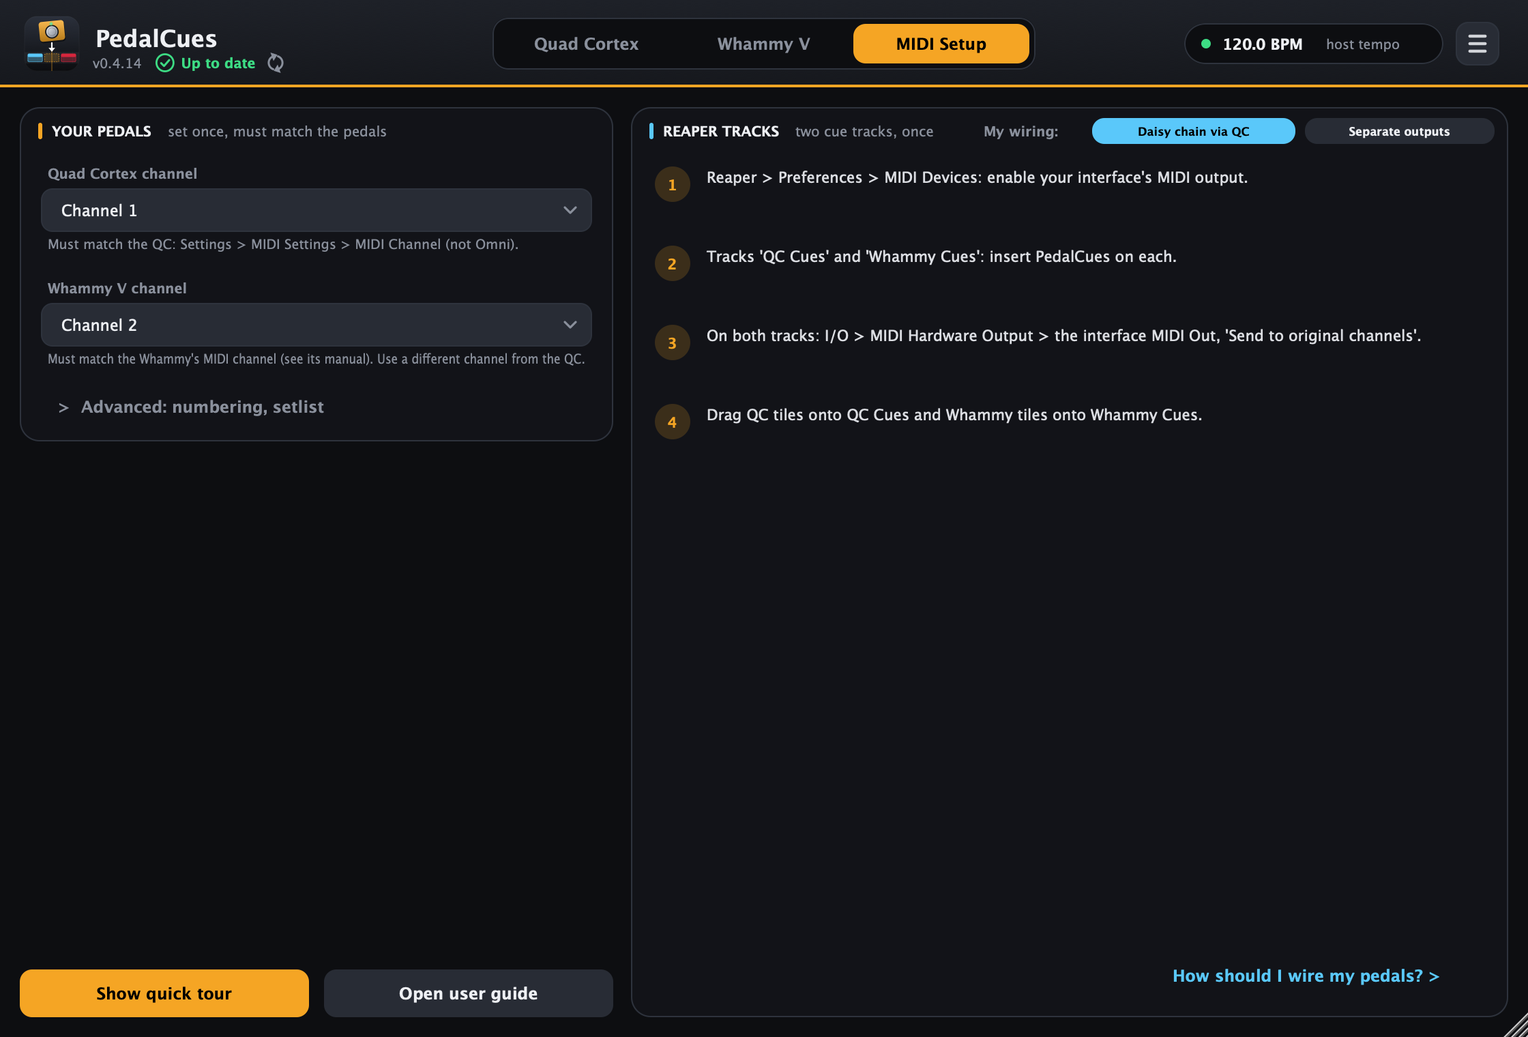
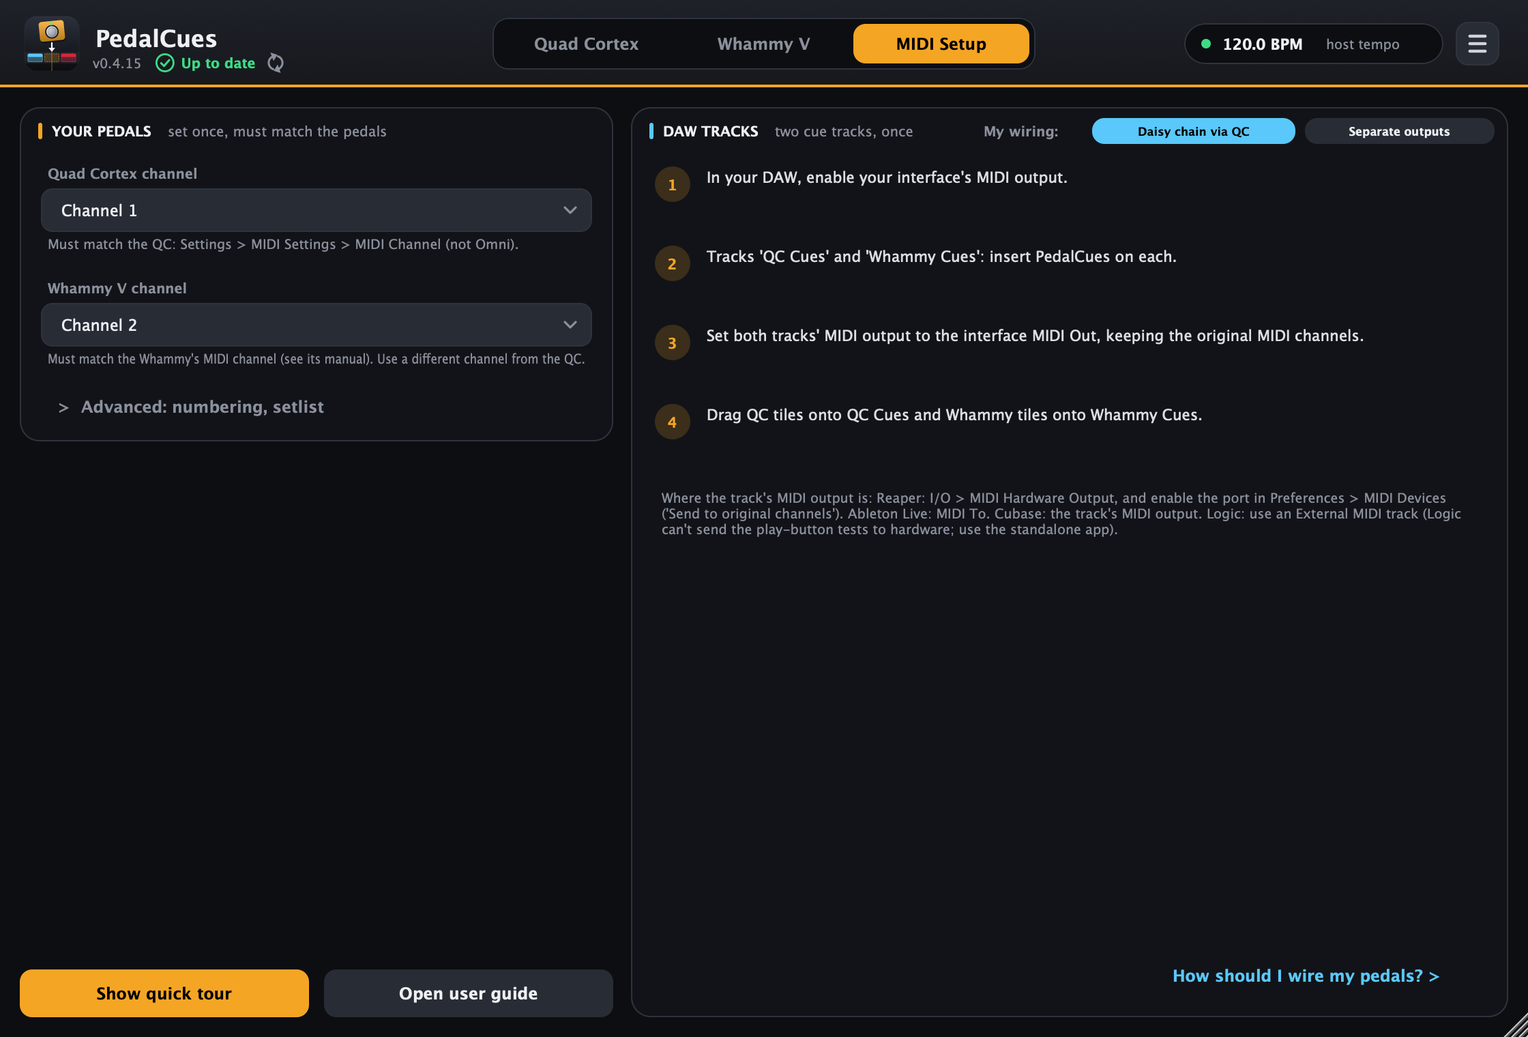
v0.4.15: works with any DAW, clearer Whammy test
- MIDI Setup says "DAW tracks" and shows where the MIDI output is in Reaper,
  Ableton Live, Cubase and Logic. The guide lists which DAWs are tested.
- Test Whammy steps through Oct Up, 5th Up and 2 Oct Up, so you always see
  the LED move, even if the Whammy was already on 2 Oct Up.

Changed region(s): [[0.4375, 0.4638, 0.9375, 0.5257], [0.4375, 0.1237, 0.8125, 0.1855], [0.4688, 0.3092, 0.9375, 0.3401]]

diff --git a/docs/index.html b/docs/index.html
@@ -157,7 +157,7 @@
 <section id="features">
   <div class="wrap">
     <h2>Everything a backing-track rig needs</h2>
-    <p class="sub">Works in any DAW that hosts VST3 or AU plugins; built with Reaper in mind.</p>
+    <p class="sub">Tested in Reaper; works in any DAW that can drag in MIDI clips and send a MIDI track to your pedals.</p>
     <div class="features">
       <div class="card"><h3><span class="dot" style="background:var(--qc)"></span>Presets &amp; scenes</h3>
         <p>Your QC presets, scene names and colours as tiles. Scenes laid out like the pedal: A&ndash;D on top, E&ndash;H below. Scenes and stomps load their own preset first, or act on the one already loaded.</p></div>
@@ -186,7 +186,7 @@
       <figure><img src="images/timeline.png" alt="Cues in the Reaper timeline" loading="lazy"><figcaption>Named cues on the timeline</figcaption></figure>
       <figure><img src="images/preset-target.png" alt="Which preset scenes act on" loading="lazy"><figcaption>Scenes load their preset first, or use the current one</figcaption></figure>
       <figure><img src="images/routing.png" alt="Routing options" loading="lazy"><figcaption>Three ways to connect your rig, and one that doesn't work</figcaption></figure>
-      <figure><img src="images/settings.png" alt="MIDI Setup tab" loading="lazy"><figcaption>MIDI Setup: your pedals and the Reaper tracks</figcaption></figure>
+      <figure><img src="images/settings.png" alt="MIDI Setup tab" loading="lazy"><figcaption>MIDI Setup: your pedals and the DAW tracks</figcaption></figure>
       <figure><img src="images/wiring-guide.png" alt="Wiring guide" loading="lazy"><figcaption>Wiring guide: cables for both setups</figcaption></figure>
       <figure><img src="images/tour-welcome.png" alt="Quick tour" loading="lazy"><figcaption>A quick tour on first launch</figcaption></figure>
       <figure><img src="images/tour-target.png" alt="Quick tour step" loading="lazy"><figcaption>The tour explains every area</figcaption></figure>

diff --git a/Source/SettingsPage.cpp b/Source/SettingsPage.cpp
@@ -143,8 +143,8 @@ public:
             g.setFont (font (12.0f));
             g.drawText (sub, r, juce::Justification::topLeft);
         };
-        heading (daisyTitle, "DAISY CHAIN VIA QC", "Both Reaper tracks send to the same interface MIDI Out. The pedals share one cable.");
-        heading (separateTitle, "SEPARATE OUTPUTS", "Each Reaper track sends to the output its pedal is on.");
+        heading (daisyTitle, "DAISY CHAIN VIA QC", "Both DAW tracks send to the same interface MIDI Out. The pedals share one cable.");
+        heading (separateTitle, "SEPARATE OUTPUTS", "Each DAW track sends to the output its pedal is on.");
 
         g.setColour (whammyRed);
         g.setFont (font (12.5f, true));
@@ -211,7 +211,7 @@ public:
         advancedButton.setColour (juce::TextButton::textColourOffId, dim);
         advancedButton.onClick = [this] { showAdvanced = ! showAdvanced; updateAdvanced(); resized(); };
 
-        // My wiring (in the Reaper tracks header): the steps below depend on it. The cable details are in Help > Wiring guide.
+        // My wiring (in the DAW tracks header): the steps below depend on it. The cable details are in Help > Wiring guide.
         for (auto* b : { &viaQcButton, &viaInterfaceButton })
         {
             b->setClickingTogglesState (true);
@@ -225,12 +225,15 @@ public:
         viaQcButton.onClick = [this] { if (viaQcButton.getToggleState()) setSetupMode (false); };
         viaInterfaceButton.onClick = [this] { if (viaInterfaceButton.getToggleState()) setSetupMode (true); };
 
-        // Reaper tracks: the two cue tracks and their outputs. Standalone only: Test (send to a port, test each pedal).
+        // DAW tracks: the two cue tracks and their outputs. Standalone only: Test (send to a port, test each pedal).
         tracksSteps.showFlow = false;
         wiringLink.setColour (juce::TextButton::buttonColourId, juce::Colours::transparentBlack);
         wiringLink.setColour (juce::TextButton::textColourOffId, qcBlue);
         wiringLink.onClick = [] { showWiringGuide(); };
         styleCaption (wiringLabel, "My wiring:");
+        styleHint (dawHint, "Where the track's MIDI output is: Reaper: I/O > MIDI Hardware Output, and enable the port in "
+                            "Preferences > MIDI Devices ('Send to original channels'). Ableton Live: MIDI To. Cubase: the track's MIDI output. "
+                            "Logic: use an External MIDI track (Logic can't send the play-button tests to hardware; use the standalone app).");
 
         testOutBox.onChange = [this]
         {
@@ -239,7 +242,7 @@ public:
             updateTestState();
         };
         testQcButton.setTooltip ("Opens the QC tuner for 1.5 seconds: a quick check that the QC gets MIDI on its channel.");
-        testWhButton.setTooltip ("Selects 2 Oct Up on the Whammy: a quick check that it gets MIDI on its channel.");
+        testWhButton.setTooltip ("Steps the Whammy through Oct Up, 5th Up and 2 Oct Up: a quick check that it gets MIDI on its channel.");
         testQcButton.onClick = [this]
         {
             cues::Cue c;
@@ -248,20 +251,30 @@ public:
             c.add (proc.getHostBpm() / 40.0, cues::qc::tuner (ch, false).events.front().second);   // ~1.5 s later
             proc.preview (c);
             setTestStatus ("Sent tuner on/off to " + currentPortName() + " on channel " + juce::String (ch)
-                           + ". Did the QC's tuner open? If not, check the cable direction, the QC's channel, and MIDI Thru for the daisy chain.");
+                           + ". Did the QC's tuner open and close (or close, if it was open)? If not, check the cable direction, the QC's channel, and MIDI Thru for the daisy chain.");
         };
         testWhButton.onClick = [this]
         {
-            const auto wh = state.getChildWithName (IDs::Whammy);
-            proc.preview (cues::whammy::effect ((int) state[IDs::whChannel], 0, wh.getChild (0)[IDs::name].toString(),
-                                                (bool) state[IDs::whChords], (bool) state[IDs::whBypass],
-                                                (int) state[IDs::whPcBase], false));
+            // Three modes half a second apart, so the LED visibly moves whatever mode the Whammy was on.
+            cues::Cue c;
+            const auto halfSecond = proc.getHostBpm() / 120.0;   // in beats
+            int step = 0;
+            for (const auto mode : { 1, 2, 0 })   // Oct Up, 5th Up, 2 Oct Up
+            {
+                const auto cue = cues::whammy::effect ((int) state[IDs::whChannel], mode, {}, (bool) state[IDs::whChords],
+                                                       (bool) state[IDs::whBypass], (int) state[IDs::whPcBase], false);
+                for (const auto& [beat, message] : cue.events)
+                    if (message.isProgramChange())
+                        c.add ((double) step * halfSecond, message);
+                ++step;
+            }
+            proc.preview (c);
             if (currentPortName().containsIgnoreCase ("Quad Cortex") || currentPortName().containsIgnoreCase ("QC"))
-                setTestStatus ("Sent 2 Oct Up to " + currentPortName() + ", but that's the Quad Cortex's USB port: the QC's MIDI Thru "
+                setTestStatus ("Sent Oct Up, 5th Up, 2 Oct Up to " + currentPortName() + ", but that's the Quad Cortex's USB port: the QC's MIDI Thru "
                                "doesn't pass USB MIDI on, so a Whammy on its Thru won't react. Send to your interface's MIDI Out instead.");
             else
-                setTestStatus ("Sent 2 Oct Up to " + currentPortName() + " on channel " + juce::String ((int) state[IDs::whChannel])
-                               + ". Did the Whammy's mode LED move? If not, check the cable direction, the Whammy's channel, and MIDI Thru for the daisy chain.");
+                setTestStatus ("Sent Oct Up, 5th Up, 2 Oct Up to " + currentPortName() + " on channel " + juce::String ((int) state[IDs::whChannel])
+                               + ". Did the Whammy's mode LED step along? If not, check the cable direction, the Whammy's channel, and MIDI Thru for the daisy chain.");
         };
         for (auto* b : { &testQcButton, &testWhButton })
             b->setColour (juce::TextButton::buttonColourId, raised);
@@ -273,7 +286,7 @@ public:
 
         for (auto* c : std::initializer_list<juce::Component*> { &qcChannelLabel, &whChannelLabel, &qcChannelBox, &whChannelBox,
                                                                  &qcHint, &whHint, &advancedButton, &tracksSteps, &viaQcButton,
-                                                                 &viaInterfaceButton, &wiringLabel, &wiringLink, &tourButton, &guideButton })
+                                                                 &viaInterfaceButton, &wiringLabel, &wiringLink, &dawHint, &tourButton, &guideButton })
             addAndMakeVisible (c);
         for (auto* c : std::initializer_list<juce::Component*> { &pcBaseLabel, &pcBaseBox, &setlistToggle,
                                                                  &testOutBox, &testQcButton, &testWhButton, &testHint })
@@ -354,7 +367,7 @@ public:
             testHint.setBounds (t);
         }
 
-        // Right: Reaper tracks, with the wiring choice in its header and a link to the wiring guide.
+        // Right: DAW tracks, with the wiring choice in its header and a link to the wiring guide.
         tracksSection.setBounds (r);
         {
             // The whole title row (headerArea() is only its right half, too narrow for label + two buttons).
@@ -367,7 +380,9 @@ public:
 
             auto t = tracksSection.contentArea().reduced (8, 6);
             wiringLink.setBounds (t.removeFromBottom (30).removeFromRight (260));
-            tracksSteps.setBounds (t);
+            tracksSteps.setBounds (t.removeFromTop (juce::jmin (t.getHeight() - 70, tracksSteps.steps.size() * tracksSteps.rowHeight)));
+            t.removeFromTop (6);
+            dawHint.setBounds (t.removeFromTop (64));
         }
     }
 
@@ -446,18 +461,18 @@ private:
         if (viaInterface)
         {
             tracksSteps.steps = {
-                "Reaper > Preferences > MIDI Devices: enable the outputs your pedals are on.",
-                "Track 'QC Cues': insert PedalCues. I/O > MIDI Hardware Output > Quad Cortex (USB) or MIDI Out 1.",
-                "Track 'Whammy Cues': insert PedalCues. I/O > MIDI Hardware Output > MIDI Out 2.",
-                "Leave both on 'Send to original channels'. Drag QC tiles onto QC Cues and Whammy tiles onto Whammy Cues."
+                "In your DAW, enable the MIDI outputs your pedals are on.",
+                "Track 'QC Cues': insert PedalCues and set its MIDI output to the Quad Cortex (USB) or MIDI Out 1.",
+                "Track 'Whammy Cues': insert PedalCues and set its MIDI output to MIDI Out 2.",
+                "Keep the original MIDI channels. Drag QC tiles onto QC Cues and Whammy tiles onto Whammy Cues."
             };
         }
         else
         {
             tracksSteps.steps = {
-                "Reaper > Preferences > MIDI Devices: enable your interface's MIDI output.",
+                "In your DAW, enable your interface's MIDI output.",
                 "Tracks 'QC Cues' and 'Whammy Cues': insert PedalCues on each.",
-                "On both tracks: I/O > MIDI Hardware Output > the interface MIDI Out, 'Send to original channels'.",
+                "Set both tracks' MIDI output to the interface MIDI Out, keeping the original MIDI channels.",
                 "Drag QC tiles onto QC Cues and Whammy tiles onto Whammy Cues."
             };
         }
@@ -471,7 +486,7 @@ private:
 
     Section pedalsSection { "set.pedals", "Your pedals", "set once, must match the pedals" };
     Section testSection   { "set.test", "Test your pedals", "sends on the channels above", ledGreen };
-    Section tracksSection { "set.tracks", "Reaper tracks", "two cue tracks, once", qcBlue };
+    Section tracksSection { "set.tracks", "DAW tracks", "two cue tracks, once", qcBlue };
 
     juce::Label qcChannelLabel, whChannelLabel, pcBaseLabel, qcHint, whHint, testHint;
     juce::ComboBox qcChannelBox, whChannelBox, pcBaseBox, testOutBox;
@@ -479,7 +494,7 @@ private:
     juce::TextButton advancedButton;
 
     StepsList tracksSteps;
-    juce::Label wiringLabel;
+    juce::Label wiringLabel, dawHint;
     juce::TextButton wiringLink { "How should I wire my pedals? >" };
     juce::TextButton viaQcButton { "Daisy chain via QC" };
     juce::TextButton viaInterfaceButton { "Separate outputs" };

diff --git a/Source/Tour.cpp b/Source/Tour.cpp
@@ -26,7 +26,7 @@ const std::vector<TourStep>& tourSteps()
           "(no reload, no audio gap). Tile subtitles show which one is active." },
         { 0, { "qc.scenes" }, "Test any tile live",
           "Every tile has a round play button in its corner. Click it and the MIDI goes to the pedal immediately, "
-          "so you can check a cue without pressing play in Reaper." },
+          "so you can check a cue without pressing play in your DAW." },
         { 0, { "qc.stomps", "qc.utils" }, "4. Stomps, tuner and gig view",
           "Switch single footswitches on or off, open the tuner for a guitar change, or flip the QC between "
           "preset, scene and stomp mode. The switch in the Stomps header picks ON or OFF tiles." },
@@ -42,7 +42,7 @@ const std::vector<TourStep>& tourSteps()
         { 2, { "set.pedals" }, "7. MIDI Setup: your pedals",
           "Set each pedal's MIDI channel to match the pedal itself, and give the QC and the Whammy different channels. "
           "Every cue is sent on these channels. You set them once." },
-        { 2, { "set.tracks" }, "8. Reaper tracks",
+        { 2, { "set.tracks" }, "8. DAW tracks",
           "Pick your wiring at the top (a daisy chain through the QC, or separate outputs), then make the two cue tracks, "
           "QC Cues and Whammy Cues, as shown. Not sure how to cable the pedals? Click 'How should I wire my pedals?'." },
         { 2, { "hdr.help" }, "You are ready",

diff --git a/docs/GUIDE.md b/docs/GUIDE.md
@@ -10,7 +10,7 @@ PedalCues turns pedal changes into **drag and drop**. Each tile in the plugin is
 
 1. [Install](#1-install)
 2. [Connect your rig](#2-connect-your-rig)
-3. [Set up Reaper (once)](#3-set-up-reaper-once)
+3. [Set up your DAW (once)](#3-set-up-your-daw-once)
 4. [First launch: the quick tour](#4-first-launch-the-quick-tour)
 5. [Quad Cortex page](#5-quad-cortex-page)
 6. [Build a song, step by step](#6-build-a-song-step-by-step)
@@ -69,7 +69,21 @@ PedalCues sends MIDI from Reaper tracks to your pedals. Use **two cue tracks**, 
 
 ---
 
-## 3. Set up Reaper (once)
+## 3. Set up your DAW (once)
+
+The clips PedalCues makes are plain MIDI files, so it works in any DAW that can drag in a MIDI file and send a MIDI track to a hardware MIDI output. The steps below use **Reaper** (tested); the same idea works elsewhere:
+
+| DAW | Where the track's MIDI output is | Status |
+|---|---|---|
+| **Reaper** | *I/O > MIDI Hardware Output* (enable the port in *Preferences > MIDI Devices*) | Tested |
+| **Ableton Live** | the track's *MIDI To* | Should work, not tested yet |
+| **Cubase / Nuendo** | the track's MIDI output | Should work, not tested yet |
+| **Bitwig, Studio One** | the track's MIDI / hardware output | Should work, not tested yet |
+| **Logic Pro** | put the clips on an *External MIDI* track | Clips work; Logic doesn't pass a plugin's MIDI out to hardware, so test with the standalone app |
+| **Pro Tools** | – | Not supported (needs AAX) |
+
+In Reaper:
+
 
 1. *Options > Preferences > Audio > MIDI Devices*: enable every MIDI output you use (your interface's MIDI Out, and the Quad Cortex if it's on USB).
 2. Create two tracks, **QC Cues** and **Whammy Cues**, and insert **PedalCues** on each.
@@ -223,8 +237,8 @@ The drawing is saved with your project and stretches to whatever *Length* you pi
 The **MIDI Setup** tab has two cards (three in the standalone app):
 
 - **Your pedals** (set once, required): the MIDI channel of the Quad Cortex and of the Whammy. They must match the pedals themselves and be different from each other. Every cue is sent on these channels, whatever your wiring. **Advanced** (folded away) has *Whammy program numbering*, only for when every mode lands one position off, and *Send setlist (CC#32)*, for presets in several setlists.
-- **Reaper tracks:** pick **My wiring** at the top (**Daisy chain via QC** or **Separate outputs**), and the card shows the two cue tracks and their MIDI outputs for it. Not sure how to cable the pedals? **How should I wire my pedals?** opens the **Wiring guide** (also in the ☰ / **Help** menu), with the cables and signal flow for both setups and the one that doesn't work.
-- **Test your pedals** (standalone app only): the MIDI port the app sends to, with **Test QC** and **Test Whammy**. They send on the channels from *Your pedals*: Test QC turns the QC tuner on and, 1.5 s later, off again (CC#45); Test Whammy selects **2 Oct Up** (a Program Change). After each click the card tells you what it sent; check that the pedal reacted.
+- **DAW tracks:** pick **My wiring** at the top (**Daisy chain via QC** or **Separate outputs**), and the card shows the two cue tracks and their MIDI outputs for it. Not sure how to cable the pedals? **How should I wire my pedals?** opens the **Wiring guide** (also in the ☰ / **Help** menu), with the cables and signal flow for both setups and the one that doesn't work.
+- **Test your pedals** (standalone app only): the MIDI port the app sends to, with **Test QC** and **Test Whammy**. They send on the channels from *Your pedals*: Test QC turns the QC tuner on and, 1.5 s later, off again (CC#45), so it opens and closes (or just closes if it was open); Test Whammy steps through **Oct Up, 5th Up and 2 Oct Up** half a second apart (Program Changes), so you see the LED move whatever mode it was on. After each click the card tells you what it sent; check that the pedal reacted.
 
 ![Wiring guide](images/wiring-guide.png)
 

diff --git a/CLAUDE.md b/CLAUDE.md
@@ -1,6 +1,6 @@
 # PedalCues: notes for Claude
 
-JUCE plugin (VST3 / AU / Standalone) that turns Quad Cortex and Whammy V MIDI changes into drag-and-drop tiles. The author is Thanasis Kostopoulos (GitHub `thankost`). The repo is public: https://github.com/thankost/pedal-cues. The download site is https://thankost.github.io/pedal-cues/, served from `docs/` on `main`.
+JUCE plugin (VST3 / AU / Standalone; tested in Reaper, DAW-neutral wording elsewhere) that turns Quad Cortex and Whammy V MIDI changes into drag-and-drop tiles. The author is Thanasis Kostopoulos (GitHub `thankost`). The repo is public: https://github.com/thankost/pedal-cues. The download site is https://thankost.github.io/pedal-cues/, served from `docs/` on `main`.
 
 ## Build and test
 
@@ -60,7 +60,7 @@ Use the `release` skill (`.claude/skills/release/SKILL.md`). In short:
 - Default channels: QC 1 (never Omni), Whammy 2. Don't state the Whammy V channel-setting procedure from memory; point to its manual.
 - Scene and stomp tiles "Load 1A first" by default (preset PC, then the scene or footswitch 1/4 beat later), or act on the "Current QC preset".
 - Standalone app (`Source/StandaloneApp.cpp`, custom JUCE standalone): no audio inputs, no Audio/MIDI settings window. Tiles go straight to the MIDI port picked in MIDI Setup > Test your pedals or Options > MIDI Output (`PedalCuesProcessor::setDirectMidiOutput`, saved as `standaloneMidiOutput` in settings.xml). Menus: macOS app menu (About, Check for Updates, auto-check toggle), File (setup), Options (MIDI Output), Help (incl. Wiring Guide). The tempo is set by the user (`setManualBpm`, `standaloneBpm`).
-- The third tab is called **MIDI Setup** (it used to be "Settings"): cards Your pedals (+ Advanced), Reaper tracks (wiring switch in its header), and Test (standalone only: port + Test QC / Test Whammy). Cable instructions live in the Wiring guide dialog (`ui::showWiringGuide`, Help / ☰ menu).
+- The third tab is called **MIDI Setup** (it used to be "Settings"): cards Your pedals (+ Advanced), DAW tracks (wiring switch in its header; DAW-neutral wording, Reaper as the tested example), and Test (standalone only: port + Test QC / Test Whammy). Cable instructions live in the Wiring guide dialog (`ui::showWiringGuide`, Help / ☰ menu).
 - "Your setup" = names + MIDI settings (`state::saveLibrary/loadLibrary`, incl. qcChannel, whChannel, whPcBase, sendSetlist, comboPresetScene). Save/Load default and Export/Import live in the ☰ menu (plugin) and the File menu (standalone).
 
 ## Links used in the app and docs

diff --git a/README.md b/README.md
@@ -1,7 +1,7 @@
 # PedalCues
 
 Drag-and-drop MIDI cues for the **Neural DSP Quad Cortex / QC Mini** and the **DigiTech Whammy V**.
-A VST3 / AU / Standalone plugin (JUCE). Built for Reaper, works in any DAW that accepts dragged MIDI files.
+A VST3 / AU / Standalone plugin (JUCE). Tested in Reaper; it should work in any DAW that accepts dragged MIDI files and can send a MIDI track to a hardware output (Ableton Live, Cubase, Bitwig, Studio One; in Logic the clips work on an External MIDI track).
 
 **[Download for Windows and macOS](https://thankost.github.io/pedal-cues/)**
 
@@ -77,7 +77,7 @@ cmake --build build --target PedalCuesTests
 ./build/PedalCuesTests_artefacts/Release/PedalCuesTests
 ```
 
-## Reaper setup
+## DAW setup (Reaper as the example)
 
 1. Connect the pedals one of three ways (the plugin's **MIDI Setup** tab shows the steps):
    - **Daisy chain:** interface **MIDI Out → QC MIDI In**, QC **MIDI Thru → Whammy MIDI In** (MIDI Thru on). Both cue tracks output to that interface MIDI Out.
@@ -85,8 +85,8 @@ cmake --build build --target PedalCuesTests
    - **QC over USB + interface:** QC on USB, interface **MIDI Out → Whammy MIDI In**. QC Cues → Quad Cortex, Whammy Cues → interface MIDI Out.
    - ⚠ **Known QC limitation:** MIDI Thru doesn't forward MIDI the QC receives over **USB**, so "QC on USB, Whammy on the QC's Thru" doesn't work.
 2. Give the pedals **different MIDI channels** (defaults: QC 1 via *Settings > MIDI Settings*, not Omni; Whammy 2, see its manual) and set the same numbers in the plugin's **MIDI Setup** tab.
-3. In *Preferences > MIDI Devices*, enable the MIDI outputs you use.
-4. Create two tracks, **QC Cues** and **Whammy Cues**, insert *PedalCues* on each, and set each track's *I/O > MIDI Hardware Output* as above (leave *Send to original channels*).
+3. In your DAW, enable the MIDI outputs you use (Reaper: *Preferences > MIDI Devices*).
+4. Create two tracks, **QC Cues** and **Whammy Cues**, insert *PedalCues* on each, and set each track's MIDI output as above (Reaper: *I/O > MIDI Hardware Output*, leave *Send to original channels*).
 5. Turn snapping on and drag QC tiles onto QC Cues and Whammy tiles onto Whammy Cues at the bars you want.
 
 Details and pictures: [guide, section 2](docs/GUIDE.md#2-connect-your-rig).

diff --git a/CHANGELOG.md b/CHANGELOG.md
@@ -2,6 +2,11 @@
 
 Download the latest version from the [PedalCues website](https://thankost.github.io/pedal-cues/). The app shows **Update to vX.Y.Z** under its title when a new one is out.
 
+## 0.4.15 (2026-10-01)
+
+- **Not just Reaper:** MIDI Setup now says **DAW tracks**, with a hint for where the MIDI output is in Reaper, Ableton Live, Cubase and Logic. The guide lists which DAWs are tested.
+- **Test Whammy** steps through Oct Up, 5th Up and 2 Oct Up, so you always see the LED move, even if the Whammy was already on 2 Oct Up.
+
 ## 0.4.14 (2026-10-01)
 
 - **MIDI Setup is simpler:** **Your pedals** (channels, with Advanced folded away) and **Reaper tracks**, with your wiring chosen right in its header. The cable instructions moved to a new **Wiring guide** (Help menu, or "How should I wire my pedals?").
